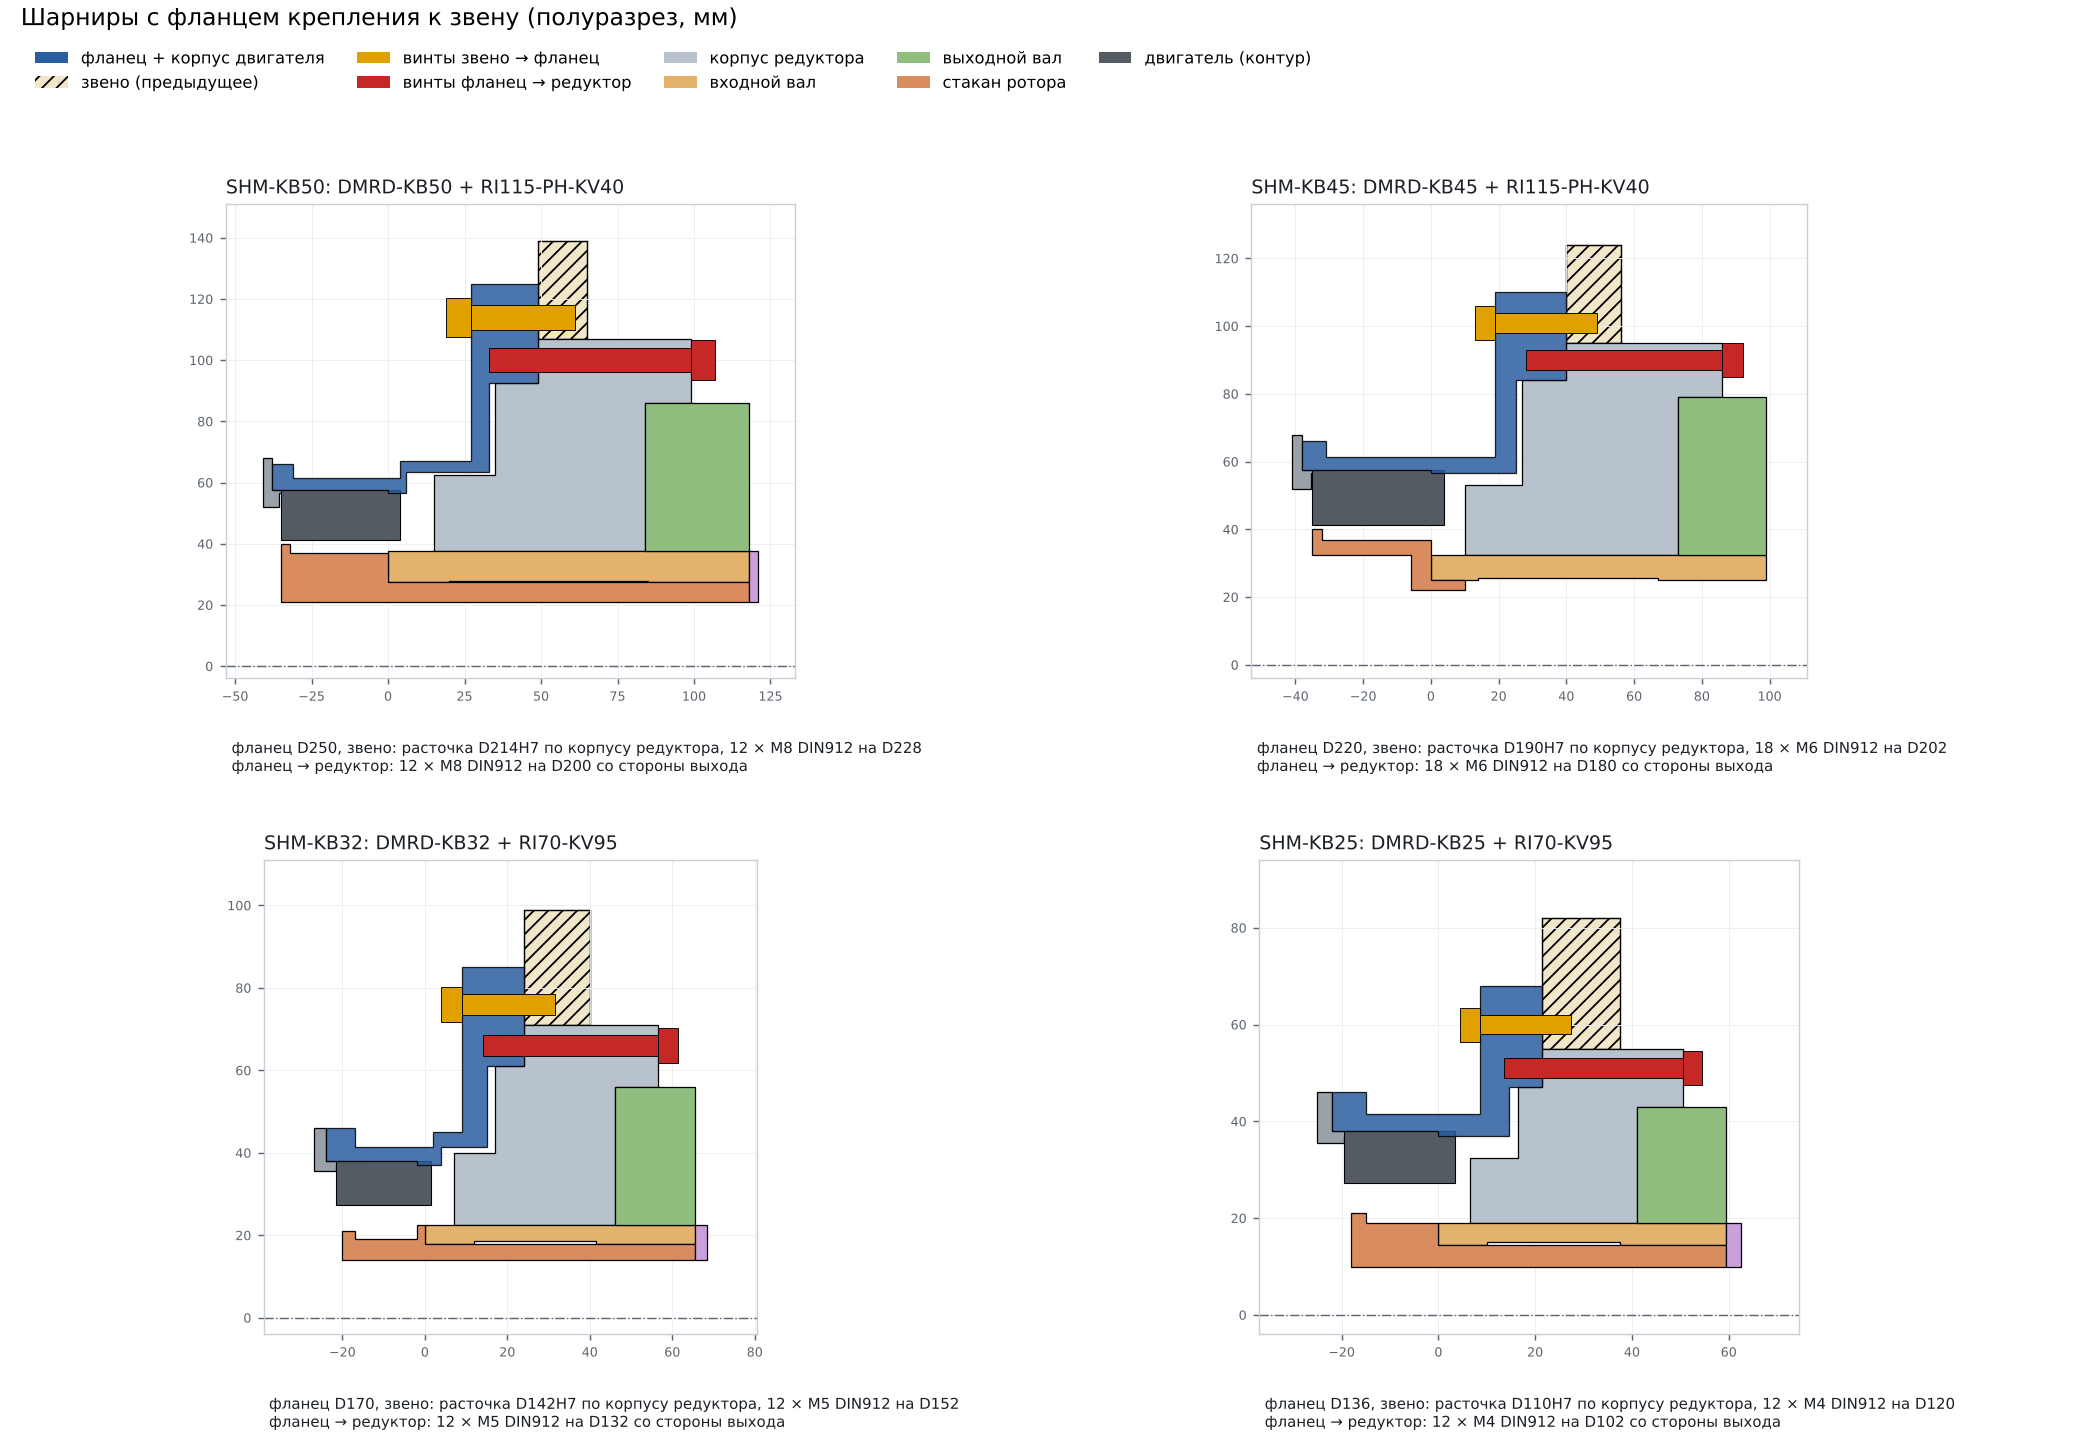
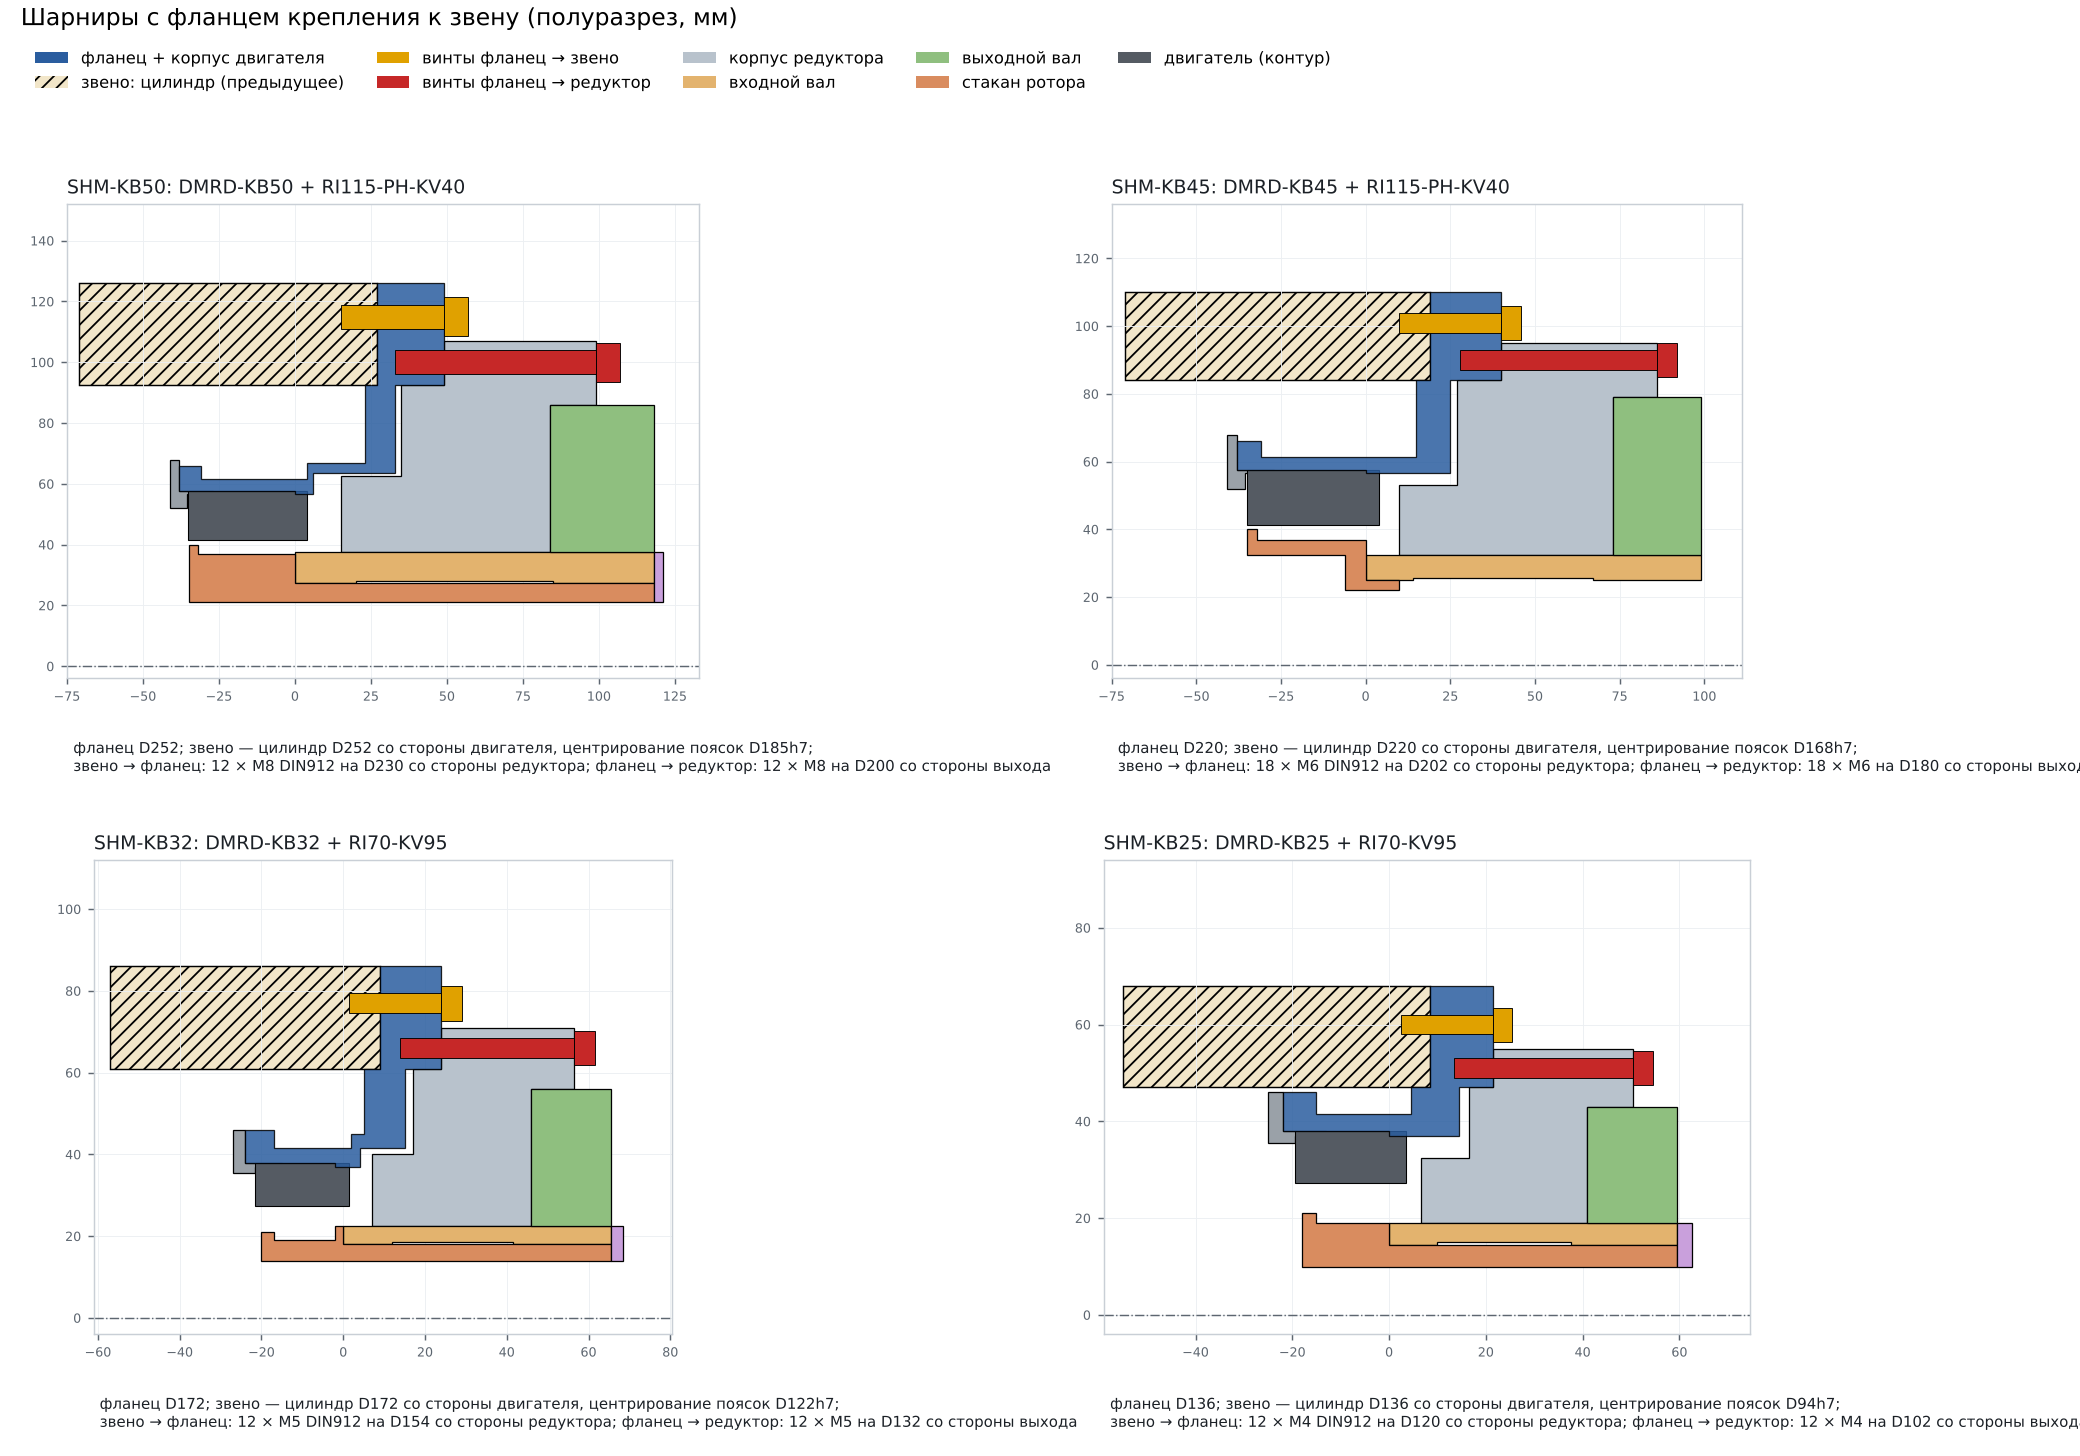
Flange joints: link cylinder (= flange OD) on the motor side, spigot = reducer pilot diameter, link screws DIN912 from the reducer side
Claude-Session: https://claude.ai/code/session_01HNc2e7dHna5JzqoB2AUz2M

diff --git a/tools/joint_section.py b/tools/joint_section.py
@@ -44,29 +44,31 @@ def draw(ax, path):
     redp = kv(next(po for po in fh["ports"] if po["name"] == "reducer")["info"])
     xb = next(po for po in fh["ports"] if po["name"] == "base")["x"]
     r_link = float(base["link_bore"].rstrip("H7")) / 2
+    r_lo = float(base["link_od"]) / 2
     r_fl = max(y for _, y in fh["pts"])
-    x_fl0 = min(x for x, y in fh["pts"] if y == r_fl)
+    x_fl1 = max(x for x, y in fh["pts"] if y == r_fl)
     ring = next(p for p in red if p["name"].endswith("Housing"))
     x_ring1 = max(x for x, y in ring["pts"] if y == max(yy for _, yy in ring["pts"]))
-    # link (previous) on the reducer side of the flange, its bore on the reducer ring
-    t_link = 16
-    ax.add_patch(Rectangle((xb, r_link), t_link, r_fl + 14 - r_link, fc="#f2e6c9", ec="k", lw=0.8, hatch="///", zorder=1))
-    # screws
+    # link (previous): cylinder = flange OD on the MOTOR side of the flange, bore on the spigot, to the rear end
+    x_rear = min(x for p in prt for x, _ in p["pts"]) - 30
+    ax.add_patch(Rectangle((x_rear, r_link), xb - x_rear, r_lo - r_link, fc="#f2e6c9", ec="k", lw=0.8, hatch="///",
+                           zorder=1))
+    # screws link -> flange: DIN912 from the reducer side (heads on the flange front face), thread in the link
     n, size = base["screws"].split("_")[0].split("x")
     hd, hk = HEAD[size]
     d = float(size[1:])
     r_s = float(base["pcd"]) / 2
-    ax.add_patch(Rectangle((x_fl0, r_s - d / 2), xb - x_fl0 + 1.5 * d, d, fc="#e0a100", ec="k", lw=0.5, zorder=5))
-    ax.add_patch(Rectangle((x_fl0 - hk, r_s - hd / 2), hk, hd, fc="#e0a100", ec="k", lw=0.5, zorder=5))
+    ax.add_patch(Rectangle((xb - 1.5 * d, r_s - d / 2), x_fl1 - xb + 1.5 * d, d, fc="#e0a100", ec="k", lw=0.5, zorder=5))
+    ax.add_patch(Rectangle((x_fl1, r_s - hd / 2), hk, hd, fc="#e0a100", ec="k", lw=0.5, zorder=5))
     nr, sr = redp["bolts"].split("x")
     hd2, hk2 = HEAD[sr]
     d2 = float(sr[1:])
     r_r = float(redp["pcd"]) / 2
-    ax.add_patch(Rectangle((xb - 2 * d2, r_r - d2 / 2), x_ring1 - xb + 2 * d2, d2, fc="#c62828", ec="k", lw=0.5, zorder=5))
+    ax.add_patch(Rectangle((x_fl1 - 2 * d2, r_r - d2 / 2), x_ring1 - x_fl1 + 2 * d2, d2, fc="#c62828", ec="k", lw=0.5, zorder=5))
     ax.add_patch(Rectangle((x_ring1, r_r - hd2 / 2), hk2, hd2, fc="#c62828", ec="k", lw=0.5, zorder=5))
     ax.axhline(0, color=MUTE, lw=0.8, ls="-.")
     xs = [x for p in red + prt for x, _ in p["pts"]]
-    ax.set_xlim(min(xs) - 12, max(xs) + 12)
+    ax.set_xlim(min(xs) - 34, max(xs) + 12)
     ax.set_ylim(-4, r_fl + 26)
     ax.set_aspect("equal")
     ax.tick_params(labelsize=7, colors=MUTE)
@@ -76,8 +78,9 @@ def draw(ax, path):
     title = (f"{j['name']}: {os.path.basename(j['use']['reducer']).split('.')[0]} + "
              f"{os.path.basename(j['use']['motor']).split('.')[0]}")
     ax.set_title(title, fontsize=10.5, color=INK, loc="left")
-    txt = (f"фланец D{2 * r_fl:.0f}, звено: расточка D{2 * r_link:.0f}H7 по корпусу редуктора, {n} × {size} DIN912 на "
-           f"D{2 * r_s:.0f}\nфланец → редуктор: {nr} × {sr} DIN912 на D{2 * r_r:.0f} со стороны выхода")
+    txt = (f"фланец D{2 * r_fl:.0f}; звено — цилиндр D{2 * r_lo:.0f} со стороны двигателя, центрирование поясок "
+           f"D{2 * r_link:.0f}h7;\nзвено → фланец: {n} × {size} DIN912 на D{2 * r_s:.0f} со стороны редуктора; "
+           f"фланец → редуктор: {nr} × {sr} на D{2 * r_r:.0f} со стороны выхода")
     ax.text(0.01, -0.13, txt, transform=ax.transAxes, fontsize=8.3, color=INK, va="top")
 
 
@@ -99,8 +102,8 @@ def main():
         draw(ax, p)
     for ax in axs.ravel()[n:]:
         ax.axis("off")
-    leg = [Patch(fc="#2a5d9f", label="фланец + корпус двигателя"), Patch(fc="#f2e6c9", hatch="///", label="звено (предыдущее)"),
-           Patch(fc="#e0a100", label="винты звено → фланец"), Patch(fc="#c62828", label="винты фланец → редуктор"),
+    leg = [Patch(fc="#2a5d9f", label="фланец + корпус двигателя"), Patch(fc="#f2e6c9", hatch="///", label="звено: цилиндр (предыдущее)"),
+           Patch(fc="#e0a100", label="винты фланец → звено"), Patch(fc="#c62828", label="винты фланец → редуктор"),
            Patch(fc="#b8c2cc", label="корпус редуктора"), Patch(fc="#e3b36e", label="входной вал"),
            Patch(fc="#8fbf7f", label="выходной вал"), Patch(fc="#d98c5f", label="стакан ротора"),
            Patch(fc="#555b63", label="двигатель (контур)")]
